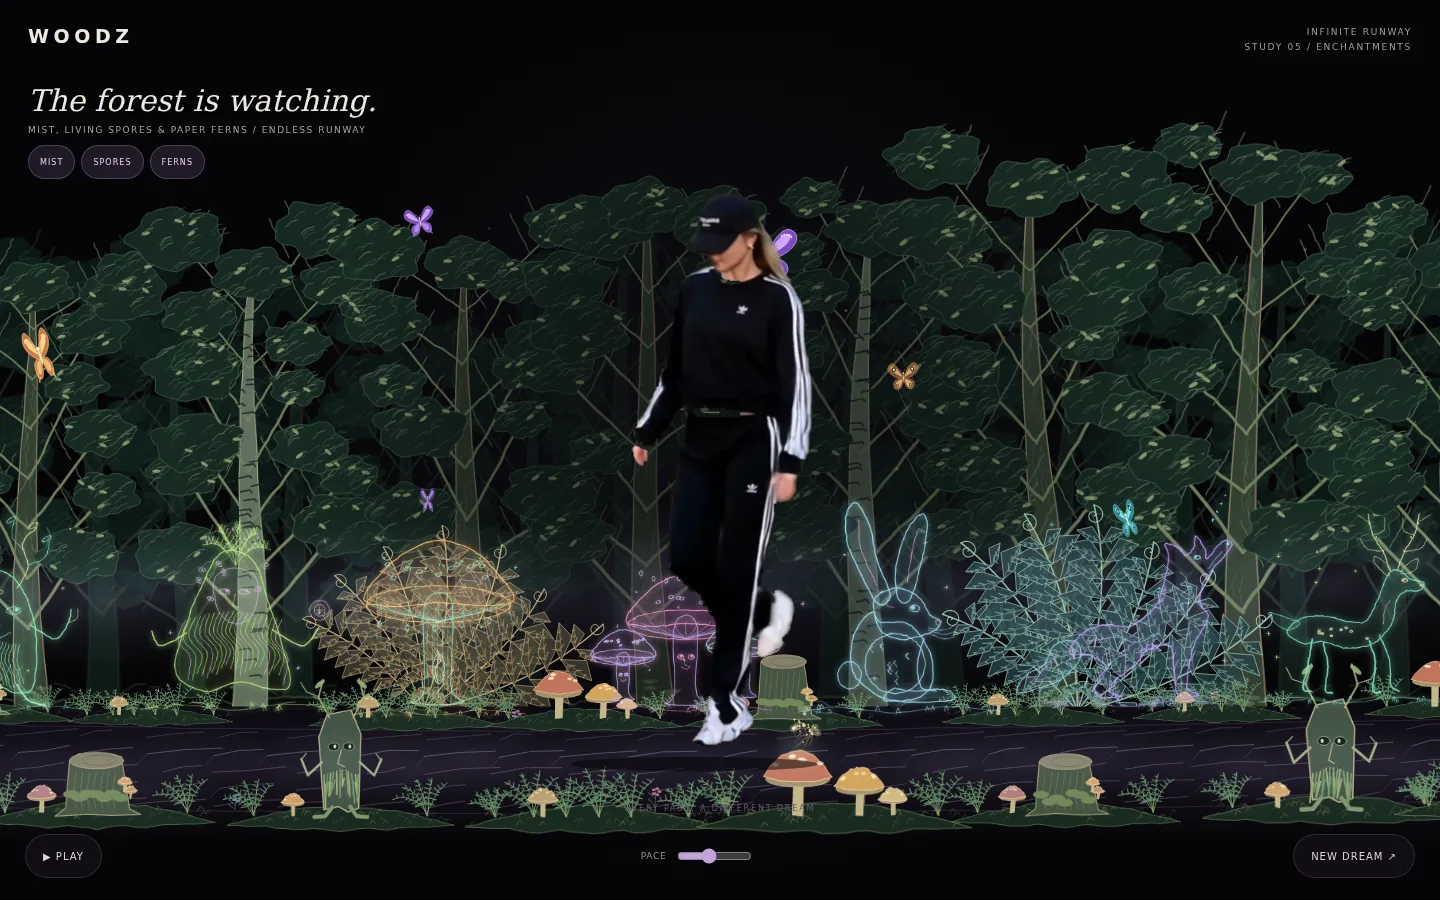
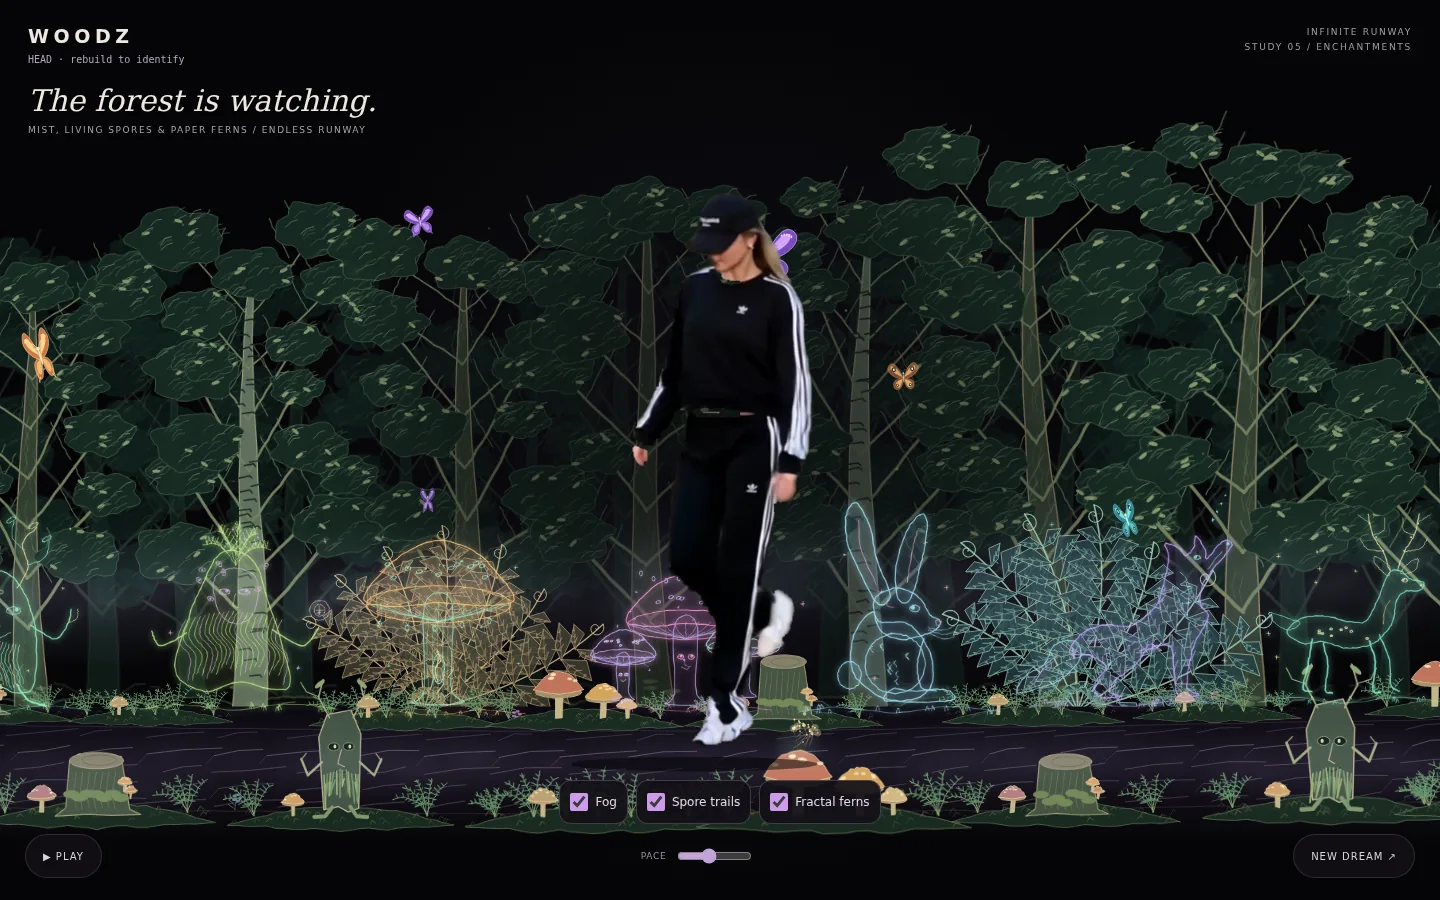
Add bottom effect checkboxes and stamp exact build HEAD

Changed region(s): [[0.375, 0.84, 0.625, 0.9333], [0.0, 0.1556, 0.1562, 0.2178], [0.0938, 0.0622, 0.125, 0.0933]]

diff --git a/out/forest-enchantments/index.html b/out/forest-enchantments/index.html
@@ -8,17 +8,27 @@
 <style>
 *{box-sizing:border-box}html,body{margin:0;width:100%;height:100%;overflow:hidden;background:#050507;color:#eee8df}body{font:12px Arial,sans-serif}canvas{display:block;width:100%;height:100%;touch-action:manipulation}.masthead{position:fixed;top:max(25px,env(safe-area-inset-top));left:28px;right:28px;display:flex;align-items:start;justify-content:space-between;pointer-events:none}.brand{font-size:19px;letter-spacing:.24em;font-weight:600}.edition{font-size:9px;letter-spacing:.19em;color:#a49ba9;line-height:1.7;text-align:right}.caption{position:fixed;left:28px;top:83px;pointer-events:none}.caption h1{font:italic 30px Georgia,serif;margin:0 0 7px}.caption p{font-size:9px;letter-spacing:.17em;text-transform:uppercase;color:#aaa0ad;margin:0}.controls{position:fixed;bottom:max(22px,env(safe-area-inset-bottom));left:25px;right:25px;display:flex;align-items:center;justify-content:space-between;gap:14px}button{color:#dcd2df;background:#131017cc;border:1px solid #d9bfe62a;border-radius:100px;min-height:44px;padding:0 17px;font:10px Arial,sans-serif;letter-spacing:.1em;cursor:pointer}button:hover{border-color:#b693c9}button:focus-visible,input:focus-visible{outline:2px solid #d2b2ec;outline-offset:5px}.tempo{display:flex;align-items:center;gap:9px;color:#9c92a4;font-size:9px;letter-spacing:.08em}.tempo input{width:75px;accent-color:#c3a2dc}.hint{position:fixed;bottom:87px;left:0;right:0;text-align:center;color:#665a70;font-size:8px;letter-spacing:.23em;pointer-events:none}#loading{position:fixed;top:50%;left:0;right:0;text-align:center;color:#cbb0e0;letter-spacing:.15em}@media(max-height:550px){.caption{top:65px}.caption h1{font-size:23px}.hint{display:none}.controls{bottom:12px}.masthead{top:18px}}
 @media(max-width:500px) and (max-height:700px){.caption{top:65px}.caption h1{font-size:23px}.caption p,.hint{display:none}.controls{left:16px;right:16px;gap:9px}button{padding:0 12px;white-space:nowrap;font-size:9px}.tempo{gap:6px}.tempo input{width:50px}}
-.effects{position:fixed;top:145px;left:28px;display:flex;gap:6px}.effects button{font-size:8px;min-height:34px;padding:0 11px;letter-spacing:.13em;border-color:#b5a3c84a}.effects button[aria-pressed="false"]{opacity:.4}.effects button[aria-pressed="true"]{background:#302638aa;color:#e5cdef}@media(max-height:550px){.effects{top:119px;left:28px}}@media(max-width:500px) and (max-height:700px){.effects{top:106px;left:16px}}
-@media(max-width:360px) and (max-height:700px){.effects{left:10px;top:110px;flex-direction:column;gap:4px}.effects button{padding:0 6px;min-height:30px;font-size:7px}}
+/* The three effects are explicit native checkboxes, always above playback. */
+.effects{position:fixed;left:16px;right:16px;bottom:calc(max(22px,env(safe-area-inset-bottom)) + 54px);display:flex;justify-content:center;gap:8px;z-index:2}
+.effects label{display:flex;align-items:center;gap:7px;min-height:44px;padding:0 10px;border:1px solid #b5a3c84a;border-radius:12px;background:#131017ed;color:#e5d7ed;font-size:12px;cursor:pointer;white-space:nowrap}
+.effects input{width:18px;height:18px;margin:0;accent-color:#cf9bec;cursor:pointer}
+.build-info{position:fixed;left:28px;top:calc(max(25px,env(safe-area-inset-top)) + 28px);max-width:calc(100% - 56px);font:10px/1.4 monospace;color:#b4a6c0;white-space:nowrap;overflow:hidden;text-overflow:ellipsis}
+.build-info a{color:#d9b5f1;text-decoration:none}.build-info a:hover{text-decoration:underline}
+@media(max-height:550px){.effects{bottom:calc(max(12px,env(safe-area-inset-bottom)) + 54px)}.build-info{top:43px}}
+@media(max-width:500px){.branch-meta{display:none}.effects{gap:6px}.effects label{font-size:10px;gap:6px;padding:0 6px}}
 </style>
 </head>
 <body>
 <canvas id="scene" aria-label="A woman walking on an infinite illustrated forest runway among trees, mushrooms and woodland spirits"></canvas>
 <header class="masthead"><div class="brand">WOODZ</div><div class="edition">INFINITE RUNWAY<br>STUDY 05 / ENCHANTMENTS</div></header>
 <div class="caption"><h1>The forest is watching.</h1><p>Mist, living spores & paper ferns / endless runway</p></div>
-<div class="effects" role="group" aria-label="Forest effects"><button data-effect="fog" aria-pressed="true">MIST</button><button data-effect="spores" aria-pressed="true">SPORES</button><button data-effect="plants" aria-pressed="true">FERNS</button></div>
+<div class="build-info" id="build-info"><span id="build-commit" data-head="">HEAD · rebuild to identify</span></div>
+<div class="effects" role="group" aria-label="Forest effects">
+<label><input type="checkbox" data-effect="fog" checked>Fog</label>
+<label><input type="checkbox" data-effect="spores" checked>Spore trails</label>
+<label><input type="checkbox" data-effect="plants" checked>Fractal ferns</label>
+</div>
 <div id="loading" role="status">Entering the night…</div>
-<div class="hint">EVERY PASS, A DIFFERENT DREAM</div>
 <div class="controls"><button id="play" aria-label="Pause animation">Ⅱ PAUSE</button><label class="tempo">PACE <input id="pace" aria-label="Walking pace" type="range" min="0.6" max="1.6" value="1" step="0.1"></label><button id="dream">NEW DREAM ↗</button></div>
 <script>
 'use strict';
@@ -656,8 +666,9 @@ function drawFractalPlants(){
 }
 function bindEnchantmentControls(){
   for(const name of Object.keys(enchantments)){
-    const button=document.querySelector(`[data-effect="${name}"]`);
-    button.onclick=()=>{enchantments[name]=!enchantments[name];button.setAttribute('aria-pressed',String(enchantments[name]));if(ready)draw();};
+    const checkbox=document.querySelector(`[data-effect="${name}"]`);
+    checkbox.checked=enchantments[name];
+    checkbox.onchange=()=>{enchantments[name]=checkbox.checked;if(ready)draw();};
   }
 }
 

diff --git a/out/forest-enchantments/template.html b/out/forest-enchantments/template.html
@@ -8,17 +8,27 @@
 <style>
 *{box-sizing:border-box}html,body{margin:0;width:100%;height:100%;overflow:hidden;background:#050507;color:#eee8df}body{font:12px Arial,sans-serif}canvas{display:block;width:100%;height:100%;touch-action:manipulation}.masthead{position:fixed;top:max(25px,env(safe-area-inset-top));left:28px;right:28px;display:flex;align-items:start;justify-content:space-between;pointer-events:none}.brand{font-size:19px;letter-spacing:.24em;font-weight:600}.edition{font-size:9px;letter-spacing:.19em;color:#a49ba9;line-height:1.7;text-align:right}.caption{position:fixed;left:28px;top:83px;pointer-events:none}.caption h1{font:italic 30px Georgia,serif;margin:0 0 7px}.caption p{font-size:9px;letter-spacing:.17em;text-transform:uppercase;color:#aaa0ad;margin:0}.controls{position:fixed;bottom:max(22px,env(safe-area-inset-bottom));left:25px;right:25px;display:flex;align-items:center;justify-content:space-between;gap:14px}button{color:#dcd2df;background:#131017cc;border:1px solid #d9bfe62a;border-radius:100px;min-height:44px;padding:0 17px;font:10px Arial,sans-serif;letter-spacing:.1em;cursor:pointer}button:hover{border-color:#b693c9}button:focus-visible,input:focus-visible{outline:2px solid #d2b2ec;outline-offset:5px}.tempo{display:flex;align-items:center;gap:9px;color:#9c92a4;font-size:9px;letter-spacing:.08em}.tempo input{width:75px;accent-color:#c3a2dc}.hint{position:fixed;bottom:87px;left:0;right:0;text-align:center;color:#665a70;font-size:8px;letter-spacing:.23em;pointer-events:none}#loading{position:fixed;top:50%;left:0;right:0;text-align:center;color:#cbb0e0;letter-spacing:.15em}@media(max-height:550px){.caption{top:65px}.caption h1{font-size:23px}.hint{display:none}.controls{bottom:12px}.masthead{top:18px}}
 @media(max-width:500px) and (max-height:700px){.caption{top:65px}.caption h1{font-size:23px}.caption p,.hint{display:none}.controls{left:16px;right:16px;gap:9px}button{padding:0 12px;white-space:nowrap;font-size:9px}.tempo{gap:6px}.tempo input{width:50px}}
-.effects{position:fixed;top:145px;left:28px;display:flex;gap:6px}.effects button{font-size:8px;min-height:34px;padding:0 11px;letter-spacing:.13em;border-color:#b5a3c84a}.effects button[aria-pressed="false"]{opacity:.4}.effects button[aria-pressed="true"]{background:#302638aa;color:#e5cdef}@media(max-height:550px){.effects{top:119px;left:28px}}@media(max-width:500px) and (max-height:700px){.effects{top:106px;left:16px}}
-@media(max-width:360px) and (max-height:700px){.effects{left:10px;top:110px;flex-direction:column;gap:4px}.effects button{padding:0 6px;min-height:30px;font-size:7px}}
+/* The three effects are explicit native checkboxes, always above playback. */
+.effects{position:fixed;left:16px;right:16px;bottom:calc(max(22px,env(safe-area-inset-bottom)) + 54px);display:flex;justify-content:center;gap:8px;z-index:2}
+.effects label{display:flex;align-items:center;gap:7px;min-height:44px;padding:0 10px;border:1px solid #b5a3c84a;border-radius:12px;background:#131017ed;color:#e5d7ed;font-size:12px;cursor:pointer;white-space:nowrap}
+.effects input{width:18px;height:18px;margin:0;accent-color:#cf9bec;cursor:pointer}
+.build-info{position:fixed;left:28px;top:calc(max(25px,env(safe-area-inset-top)) + 28px);max-width:calc(100% - 56px);font:10px/1.4 monospace;color:#b4a6c0;white-space:nowrap;overflow:hidden;text-overflow:ellipsis}
+.build-info a{color:#d9b5f1;text-decoration:none}.build-info a:hover{text-decoration:underline}
+@media(max-height:550px){.effects{bottom:calc(max(12px,env(safe-area-inset-bottom)) + 54px)}.build-info{top:43px}}
+@media(max-width:500px){.branch-meta{display:none}.effects{gap:6px}.effects label{font-size:10px;gap:6px;padding:0 6px}}
 </style>
 </head>
 <body>
 <canvas id="scene" aria-label="A woman walking on an infinite illustrated forest runway among trees, mushrooms and woodland spirits"></canvas>
 <header class="masthead"><div class="brand">WOODZ</div><div class="edition">INFINITE RUNWAY<br>STUDY 05 / ENCHANTMENTS</div></header>
 <div class="caption"><h1>The forest is watching.</h1><p>Mist, living spores & paper ferns / endless runway</p></div>
-<div class="effects" role="group" aria-label="Forest effects"><button data-effect="fog" aria-pressed="true">MIST</button><button data-effect="spores" aria-pressed="true">SPORES</button><button data-effect="plants" aria-pressed="true">FERNS</button></div>
+<div class="build-info" id="build-info">__BUILD_STAMP__</div>
+<div class="effects" role="group" aria-label="Forest effects">
+<label><input type="checkbox" data-effect="fog" checked>Fog</label>
+<label><input type="checkbox" data-effect="spores" checked>Spore trails</label>
+<label><input type="checkbox" data-effect="plants" checked>Fractal ferns</label>
+</div>
 <div id="loading" role="status">Entering the night…</div>
-<div class="hint">EVERY PASS, A DIFFERENT DREAM</div>
 <div class="controls"><button id="play" aria-label="Pause animation">Ⅱ PAUSE</button><label class="tempo">PACE <input id="pace" aria-label="Walking pace" type="range" min="0.6" max="1.6" value="1" step="0.1"></label><button id="dream">NEW DREAM ↗</button></div>
 <script>
 'use strict';

diff --git a/out/forest-enchantments/enchantments.js b/out/forest-enchantments/enchantments.js
@@ -139,7 +139,8 @@ function drawFractalPlants(){
 }
 function bindEnchantmentControls(){
   for(const name of Object.keys(enchantments)){
-    const button=document.querySelector(`[data-effect="${name}"]`);
-    button.onclick=()=>{enchantments[name]=!enchantments[name];button.setAttribute('aria-pressed',String(enchantments[name]));if(ready)draw();};
+    const checkbox=document.querySelector(`[data-effect="${name}"]`);
+    checkbox.checked=enchantments[name];
+    checkbox.onchange=()=>{enchantments[name]=checkbox.checked;if(ready)draw();};
   }
 }

diff --git a/out/forest-enchantments/build.py b/out/forest-enchantments/build.py
@@ -1,5 +1,8 @@
 """Build forest enchantments with the original 33 approved walk frames."""
+import argparse
 import base64
+import html as html_tools
+import subprocess
 from io import BytesIO
 from pathlib import Path
 from PIL import Image
@@ -7,6 +10,24 @@ from PIL import Image
 ATTEMPT = Path(__file__).resolve().parent
 ROOT = ATTEMPT.parents[1]
 BASE = ATTEMPT.parent / 'forest-spectators'
+parser = argparse.ArgumentParser(description=__doc__)
+parser.add_argument('--snapshot', action='store_true',
+                    help='Write a version-neutral committed preview; normal builds stamp git HEAD.')
+args = parser.parse_args()
+if args.snapshot:
+    stamp = '<span id="build-commit" data-head="">HEAD · rebuild to identify</span>'
+else:
+    # Resolve the checked-out commit, never GITHUB_SHA (which can be a PR merge).
+    revision = subprocess.check_output(['git', 'rev-parse', '--verify', 'HEAD'],
+                                       cwd=ROOT, text=True).strip()
+    branch = subprocess.check_output(['git', 'rev-parse', '--abbrev-ref', 'HEAD'],
+                                     cwd=ROOT, text=True).strip()
+    escaped_branch = html_tools.escape(branch)
+    stamp = (f'<a id="build-commit" data-head="{revision}" '
+             f'href="https://github.com/ToniDonDoni/woodz_witch_fashion/commit/{revision}" '
+             f'target="_blank" rel="noopener" title="{revision}">HEAD {revision[:12]}</a>'
+             f'<span class="branch-meta"> · <span id="build-branch" '
+             f'title="{escaped_branch}">{escaped_branch}</span></span>')
 atlas = Image.new('RGBA', (420 * 6, 790 * 6))
 for index in range(33):
     with Image.open(ROOT / 'assets' / 'walk' / f'sprite_{index:03d}.png') as frame:
@@ -18,6 +39,8 @@ html = (ATTEMPT / 'template.html').read_text(encoding='utf-8')
 html = html.replace('__SPECTATOR_CODE__', (BASE / 'spectators.js').read_text(encoding='utf-8'))
 html = html.replace('__FOREST_CODE__', (BASE / 'forest.js').read_text(encoding='utf-8'))
 html = html.replace('__ENCHANTMENT_CODE__', (ATTEMPT / 'enchantments.js').read_text(encoding='utf-8'))
+html = html.replace('__BUILD_STAMP__', stamp)
 html = html.replace('__ATLAS_DATA__', base64.b64encode(buffer.getvalue()).decode('ascii'))
 (ATTEMPT / 'index.html').write_text(html, encoding='utf-8')
 print(f'Built standalone HTML: {len(html.encode())} bytes; 33 embedded frames')
+print('HEAD: rebuild required' if args.snapshot else f'HEAD: {revision} ({branch})')

diff --git a/out/forest-enchantments/README.md b/out/forest-enchantments/README.md
@@ -9,19 +9,21 @@ The forest audience runway from commit
 - **FERNS:** recursively detailed folded-paper plants that unfold, sway and curl
   closed as they travel through the rear forest layer.
 
-Each effect has its own toggle. The original 33 footage-derived walk frames,
+Each effect has a labeled native checkbox at the bottom, above playback controls. The original 33 footage-derived walk frames,
 24 fps sprite cadence, 12 Hz contour boil, forest and neon audience are reused.
 Turning all three effects off restores the original canvas exactly.
 
-## Run immediately
+## Run the correct preview
 
-A built, standalone `index.html` is committed here. From the repository root:
+A built, standalone `index.html` is committed here. Rebuild first for an exact
+HEAD stamp (see below). From the repository root:
 
 ```sh
-python3 -m http.server 8000 --bind 0.0.0.0
+python3 -m http.server 8000 --bind 0.0.0.0 --directory out/forest-enchantments
 ```
 
-Open http://localhost:8000/out/forest-enchantments/ . On another device, replace
+Open http://localhost:8000/ . This serves the correct effect preview directly;
+the repository root `index.html` is a different, older "Into the woods" scene. On another device, replace
 `localhost` with the serving computer's LAN address. In Docker, publish port
 8000 (for example `-p 8000:8000`). You can also open this HTML directly as a file;
 it embeds the atlas and all code and makes no runtime network requests.
@@ -35,13 +37,32 @@ python3 -m venv /tmp/woodz-build-venv
 . /tmp/woodz-build-venv/bin/activate
 python -m pip install Pillow
 python out/forest-enchantments/build.py
-python -m http.server 8000 --bind 0.0.0.0
+python -m http.server 8000 --bind 0.0.0.0 --directory out/forest-enchantments
 ```
 
 The builder reads the 33 PNGs from `assets/walk/`, the original forest and
 spectator drawing code from `out/forest-spectators/`, and this attempt's
 `template.html` and `enchantments.js`. It writes only this attempt's `index.html`.
 Node.js, Three.js, bundlers and an internet connection are not needed to play it.
+
+## Build identity
+
+A normal build runs `git rev-parse --verify HEAD` in this repository and embeds
+that exact checked-out commit. The upper-left stamp shows the first 12 hex
+characters, links to the full commit, and includes the checked-out branch name.
+It does not query the live remote branch and does not read `GITHUB_SHA`, which
+can identify a synthetic PR merge. Always rebuild after switching or updating
+branches. Detached checkouts show the exact commit and `HEAD` as the branch.
+
+The committed preview is generated with `python out/forest-enchantments/build.py
+--snapshot` and explicitly says **HEAD · rebuild to identify**. A file cannot
+contain its own enclosing commit hash; recording a parent hash as if it were the
+current HEAD would be misleading. Normal local/CI builds replace this message
+with the actual build HEAD. The result remains one offline-capable HTML file.
+
+The **Check Forest Enchantments** workflow checks out the PR head SHA explicitly,
+builds, verifies, and uploads an HTML artifact named after that same commit. It
+never stamps the synthetic merge commit created by GitHub for PR checks.
 
 ## Verify
 
@@ -55,11 +76,13 @@ PLAYWRIGHT_MODULE=/tmp/woodz-browser-check/node_modules/playwright \
   node out/forest-enchantments/verify.cjs
 ```
 
+Run a normal build before verification; the version check requires a stamped page.
+
 `BROWSER_EXECUTABLE` may select an existing Chromium binary. The verifier writes
 screenshots, motion frames and `verification.json` beside the sources. It checks
 three simulated minutes of effects, original scene regression checks, exact
 restoration when effects are disabled, cache bounds, seek/reseed determinism,
-pause, four viewports and offline operation. See `review.md` for observed results.
+pause, five viewports and offline operation. See `review.md` for observed results.
 
 ## References
 

diff --git a/out/forest-enchantments/review.md b/out/forest-enchantments/review.md
@@ -18,8 +18,8 @@ and the root release are untouched. New source and standalone output are in
 - Ferns use seven opening fronds with repeated folded leaves and sub-leaflets.
   Their numerical geometry cache includes the world seed and is retired when
   the full plant leaves the viewport. There is no history-dependent simulation.
-- Three independent toggle buttons allow direct comparison against the original.
-  On narrow 320px layouts the buttons form a slim left column, away from the face.
+- Three native, labeled bottom checkboxes allow direct comparison against the
+  original. They sit above playback controls at every tested size.
 
 ## Validation
 
@@ -35,8 +35,8 @@ The check covers:
 - all three effects present in the first 30 seconds;
 - pause, each effect toggle, reseeding, and identical rendering across seek paths;
 - exact original canvas pixels when all three effects are disabled;
-- real-time playback, four viewport sizes and no external network requests;
-- 430x932, 320x568, 844x390 and 1440x900 screenshots.
+- real-time playback, five viewport sizes and no external network requests;
+- 430x932, 320x568, 844x390, 1440x900 and 2048x1000 screenshots.
 
 Canvas comparisons use the canvas's actual PNG data, rather than element
 screenshots: an element screenshot also captures the overlaid HTML controls.
@@ -58,3 +58,20 @@ walker or replacement poses were introduced.
 This was desktop Chromium at phone viewport sizes, not a physical-phone test.
 Physical-phone frame rate, touch behavior and file-opening behavior remain
 unmeasured. No mobile acceptance claim is made.
+
+## Follow-up verification: checkboxes and HEAD stamp
+
+Each of the three effects was toggled alone on a fixed paused frame. The actual
+canvas pixels changed when checked and returned exactly when unchecked. Native
+Space-key operation also updates the drawing. Layout checks assert that labels
+stay inside the viewport, sit near the bottom and do not overlap playback.
+
+The normal build embeds the checked-out `git rev-parse HEAD`, abbreviated to 12
+characters on screen and linked to the full commit. The verifier compares the
+embedded value to Git. On narrow screens, the branch name is hidden so the hash
+stays clear of the edition text. The committed snapshot explicitly requests a
+rebuild rather than mislabeling its parent commit as its own current HEAD.
+
+The supplied user screenshot is the separate root "Into the woods" scene.
+The README now serves this attempt's directory directly at `/` to prevent that
+entry-point mix-up.

diff --git a/tasks/forest_enchantments.md b/tasks/forest_enchantments.md
@@ -36,3 +36,14 @@ adaptations, not copied demo source or downloaded videos.
 - Paper/cardboard fractal styling:
   https://skillry.dev/ai-videos/opus-5-5/jrayon-054015
 - Reference collection: https://github.com/yihui-dev/awesome-opus5-5-videos
+
+## Follow-up: explicit controls and build identity
+
+- Replace the top toggle pills with three native bottom checkboxes: Fog,
+  Spore trails and Fractal ferns. Verify mouse and keyboard operation.
+- Put the actual build HEAD and branch at upper left. Read the checked-out Git
+  HEAD during the build; do not stamp a PR merge or query a remote branch at runtime.
+- Prove each effect independently changes canvas pixels on a paused frame and
+  unchecking it restores the pixels. Check control layout at all five sizes.
+- Document how to serve this attempt directly at `/`, since the screenshot shows
+  the separate older root "Into the woods" scene.
